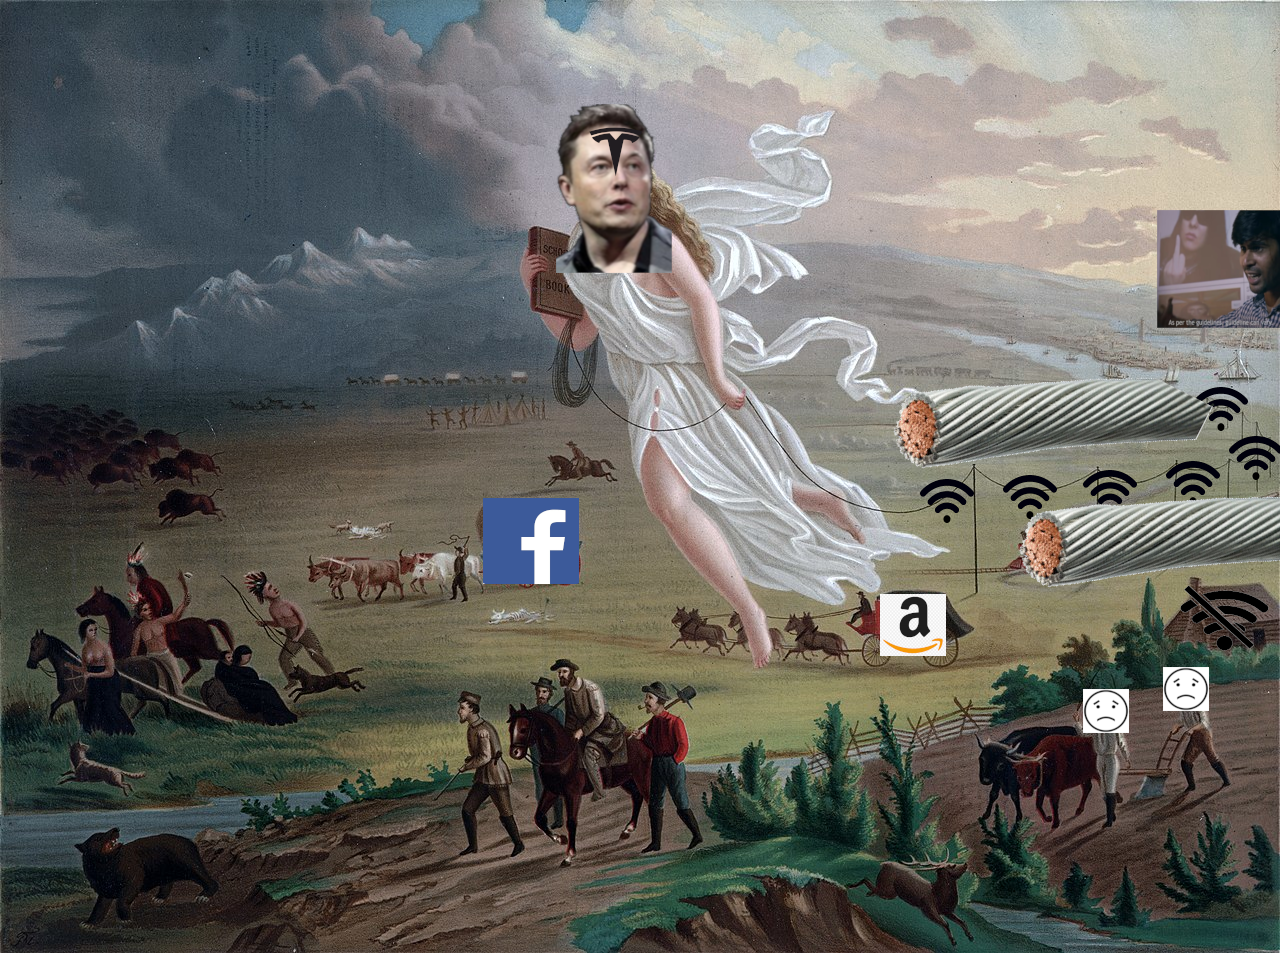
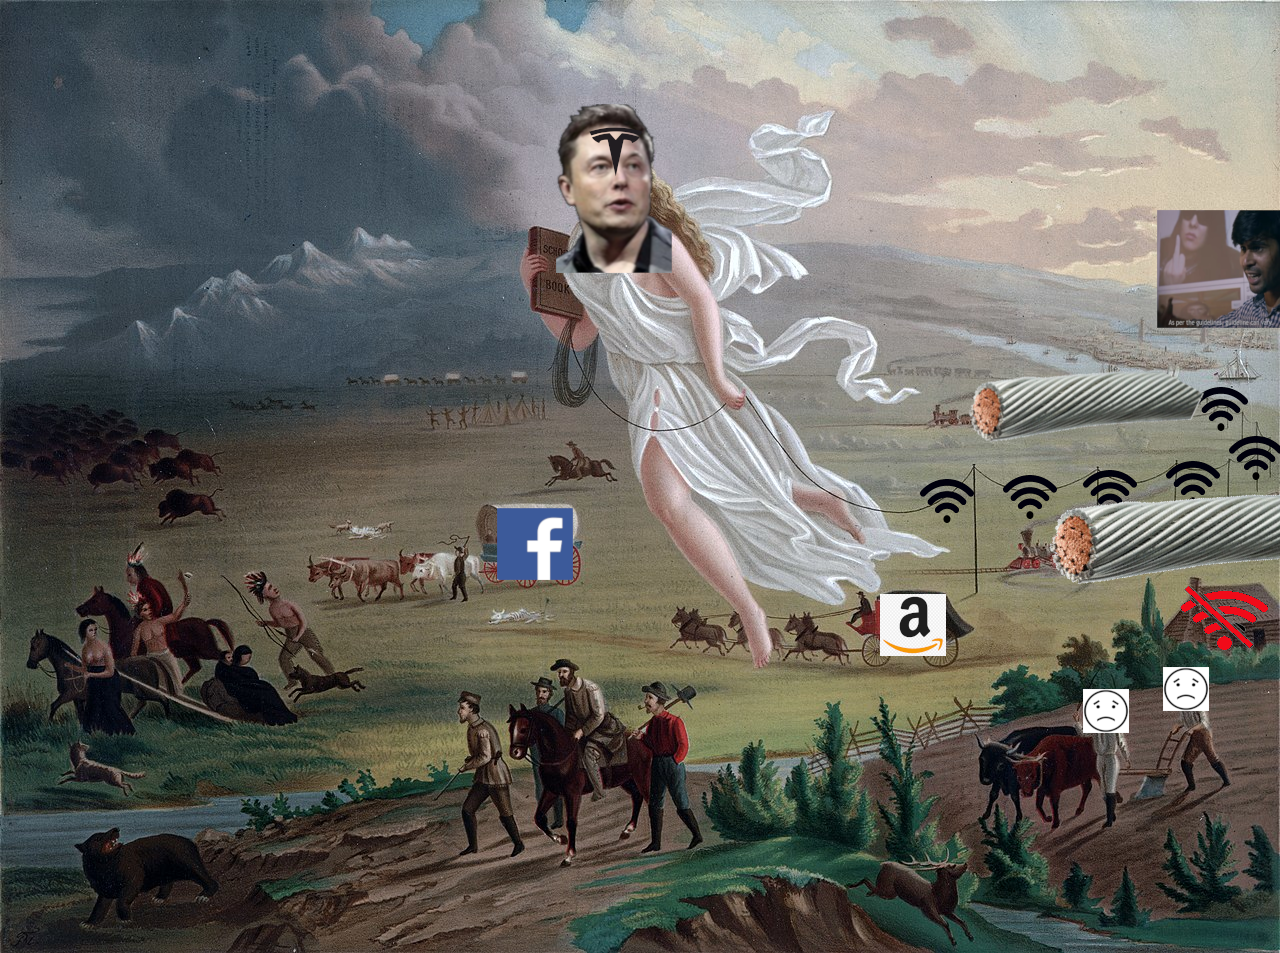
Edits!

Changed region(s): [[0.7812, 0.5173, 1.0, 0.6999], [0.6875, 0.3652, 0.9688, 0.4869], [0.375, 0.5173, 0.4688, 0.639]]

diff --git a/index.html b/index.html
@@ -9,10 +9,21 @@
 
  <img src="DigitalReflectionHarrington.png" alt="Digital Reflection Poster"> 
 
-    <p>The digital poster I created merges the course concepts of physical internet infrastructure, digital colonialism as well as Content Moderation. 
-Internet Infrastructure is represented in this poster through the underwater sea cables stretching from the ocean in the east that are represented as the trains that are spreading west. The cable that Elon Musk is spreading is represented as internet and Wi-Fi westward. However, a key piece in this digital poster is the individuals in the bottom right. Although they are in the “light” (Developed area) have no access to internet but wish they had it as represented by the lack of internet in their home and their sad faces. They are being overlooked by the corporations that are spreading technology westward because it doesn’t make monetary sense to provide for them. This is representative of the significant amount of Americans that don’t have access to internet that are being ignored. 
-The digital colonialism is represented throughout the poster. The background of the image is the famous American Progress painting which is an 1872 painting by John Gast that is often used as a representation of Manifest Destiny and the white man’s burden. However instead of a push westward it now represents bringing internet to the “uncivilized” and “undeveloped” whether they want it or not.  Big tech companies are driving the push to underdeveloped areas as they want looking for more markets to make money from, this is represented by Facebook and Amazon driving carts west towards the darkness with Elon Musk the angel leading the charge with the Tesla star on his brow. 
-Finally content moderation is included in this digital poster as the sun that spreads its light on the east is the content moderator teacher explaining what pictures are okay from the video we viewed in class. All the light of the internet and technology is provided by the content moderators that never get any credit but make it a safe and enjoyable place to be for everyone else. 
+    <p>The digital poster I created merges the course concepts of physical internet infrastructure, digital colonialism as well as content moderation. 
+Internet Infrastructure is represented throughout this poster. First the trains as the basis of the poster represent the spread of colonists westward. They have been substituted with underwater cables to represent how all of the internet is built through the infrastructure of underwater sea cables. Anywhere that needs internet currently must have underwater cables connecting it to the rest of the world. A key piece in this digital poster are the individuals in the bottom right. The right side of this poster represents the developed area vs the left side that represents the undeveloped area that are still in the darkness. Although these individuals are in the right side of the poster, they have no access to internet but wish they had it as represented by the lack of internet in their home and their sad faces. They are being overlooked by the corporations that are spreading technology westward because it doesn’t make monetary sense to provide for them. This is representative of the significant number of Americans who don’t have access to the internet that are being ignored. 
+The digital colonialism is represented throughout the poster. The background of the image is the famous American Progress painting which is an 1872 painting by John Gast that is often used as a representation of Manifest Destiny and the white man’s burden. However, instead of a push westward it now represents bringing internet to the “uncivilized” and “undeveloped” whether they want it or not.  Big tech companies are driving the push to underdeveloped areas as they want to expand their markets. This is represented by Facebook and Amazon driving carts west towards the darkness with Elon Musk the angel leading the charge with the Tesla star on his brow as he brings Wi-Fi connection with him. 
+Finally content moderation is included in this digital poster as the sun that spreads its light on the east. The sun has been replaced by the content moderator teacher explaining what pictures are okay from the video we viewed in class. All the light of the internet and technology is provided by the content moderators that never get any credit but make it a safe and enjoyable place to be for everyone else. 
+The entire poster represents the idea of technology being the solution to everything while ignoring the struggles beneath the surface. The large tech companies push the idea of technology being the light and the salvation for people who do not have it. However, an underlining element of this digital poster are the issues and problems technology can cause. Many aren’t aware of the large number of Americans who are without internet access. They also aren’t aware of how important content moderators are in making the internet a safe place to be or how difficult the job can be for the moderators and how much emotional damage it can cause. 
+ 
 </p>
+    
+    <p>https://pixabay.com/vectors/wi-fi-wifi-symbol-wireless-2119225/</p>
+    <p>https://www.nvent.com/en-us/erico/products/efscc5a40</p>
+    <p>https://www.pxfuel.com/en/search?q=facebook+logo</p>
+    <p>https://similarpng.com/amazon-icon-in-flat-design-on-transparent-background-png/</p>
+    <p>https://cdn.iconscout.com/icon/free/png-256/tesla-14-892143.png</p>
+    <p>https://www.youtube.com/watch?v=k9m0axUDpro</p>
+    <p>https://routerctrl.com/talktalk-no-internet-issue/</p>
+    <p>https://openclipart.org/detail/256859/unhappy-face</p>
 </body>
 </html> 
